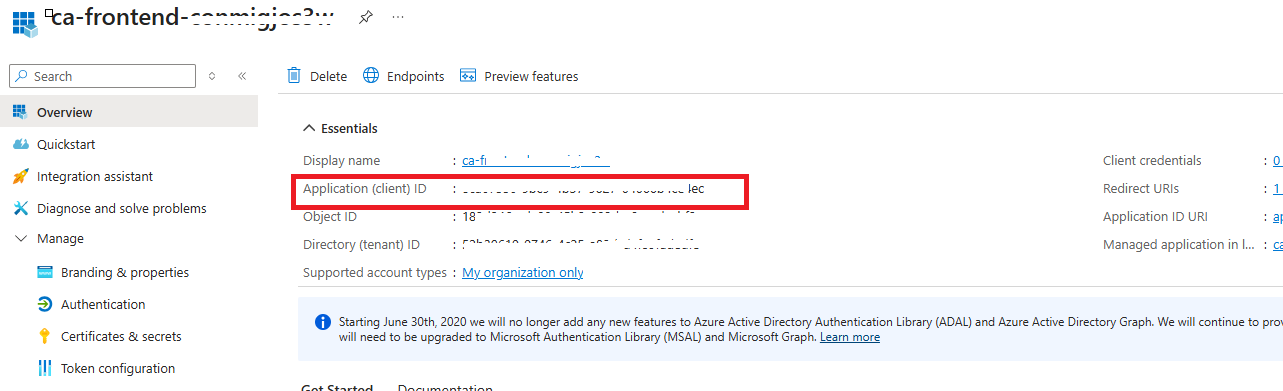
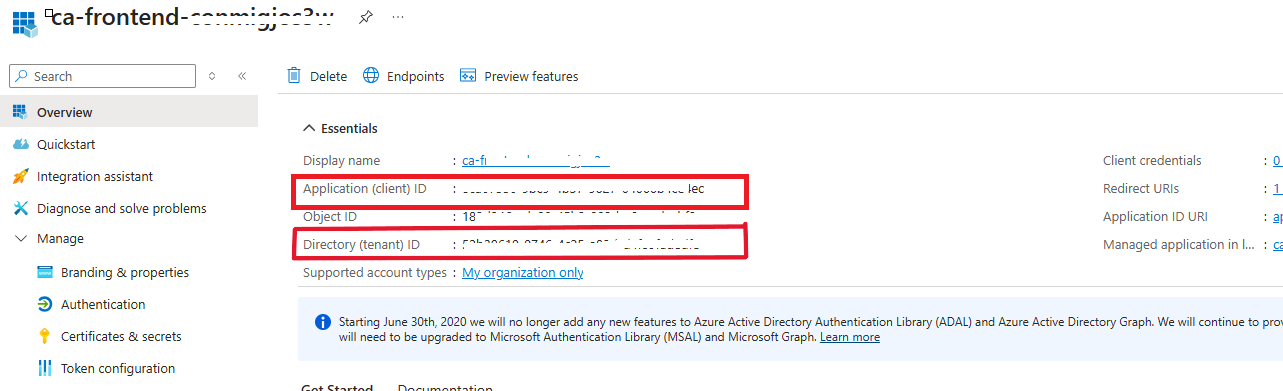
Update doc and add variable in bicep file

Changed region(s): [[0.2182, 0.5524, 0.5924, 0.6752]]

diff --git a/docs/ConfigureAppAuthentication.md b/docs/ConfigureAppAuthentication.md
@@ -76,6 +76,8 @@ We will add Microsoft Entra ID as an authentication provider to API and Web Appl
 
    - Select **Overview** in the left menu. Copy the Client Id, then paste it in some temporary place.
      The copied text will be used for Web Application Environment variable - **APP_WEB_CLIENT_ID**.
+   - Also copy the Tenant Id, then paste it in some temporary place.
+     The copied text will be used for Web Application Environment variable - **APP_MSAL_AUTH_AUTHORITY**.
      ![configure_app_registration_web_10](./images/configure_app_registration_web_10.png)
 
 ## Step 3: Configure Application Registration - API Application
@@ -115,9 +117,10 @@ Now, we will edit and deploy the Web Application Container with updated Environm
 | REACT_APP_MSAL_AUTH_CLIENTID     | In Step 2, Client Id for Web                 |
 | REACT_APP_WEB_SCOPE              | In Step 2, Scope Name                        |
 | REACT_APP_API_SCOPE              | In Step 3, Scope Name                        |
-| REACT_APP_MSAL_AUTH_AUTHORITY    | https://login.microsoftonline.com/'TenantId' |
+| REACT_APP_MSAL_AUTH_AUTHORITY    | https://login.microsoftonline.com/'TenantId' <br/>*Note: Replace 'TenantId' with the Tenant Id copied in Step 2, point 4* |
 | REACT_APP_MSAL_POST_REDIRECT_URL | /                                            |
 | REACT_APP_MSAL_REDIRECT_URL      | /                                            |
+| ENABLE_AUTH                      | true                                         |
 
 Click on **Save as a new revision**.
 The updated revision will be activated soon.
